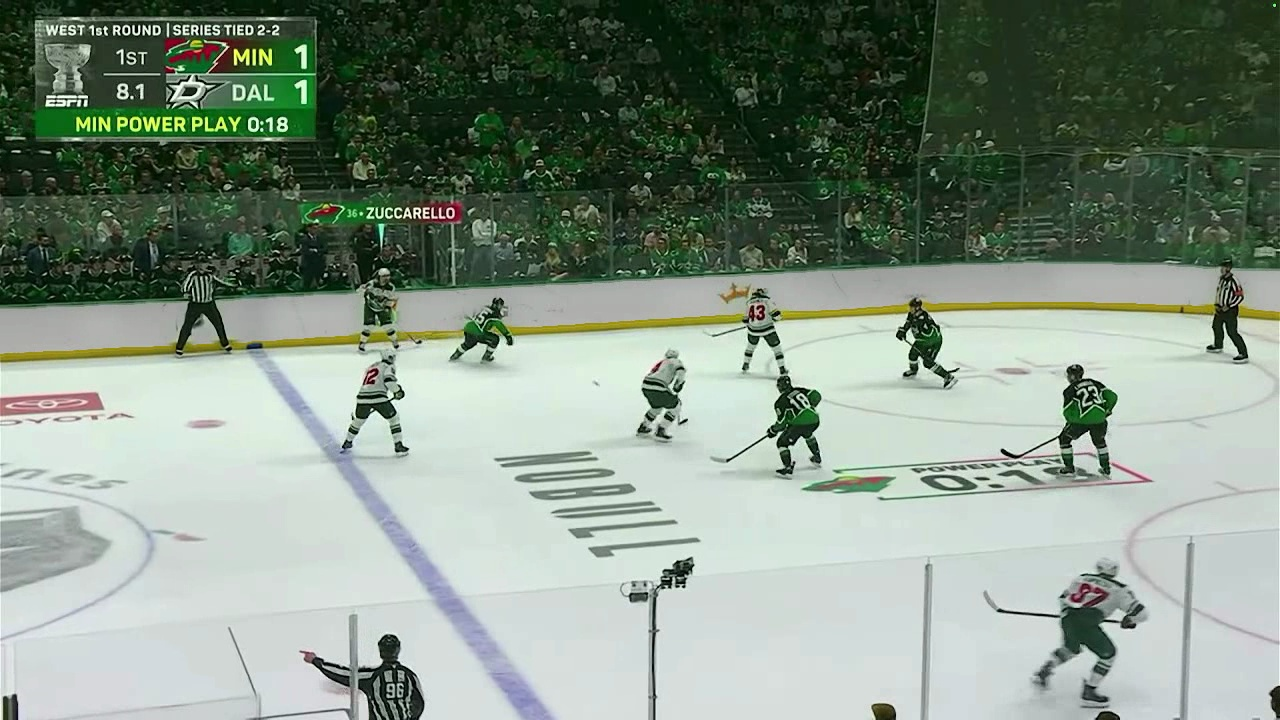
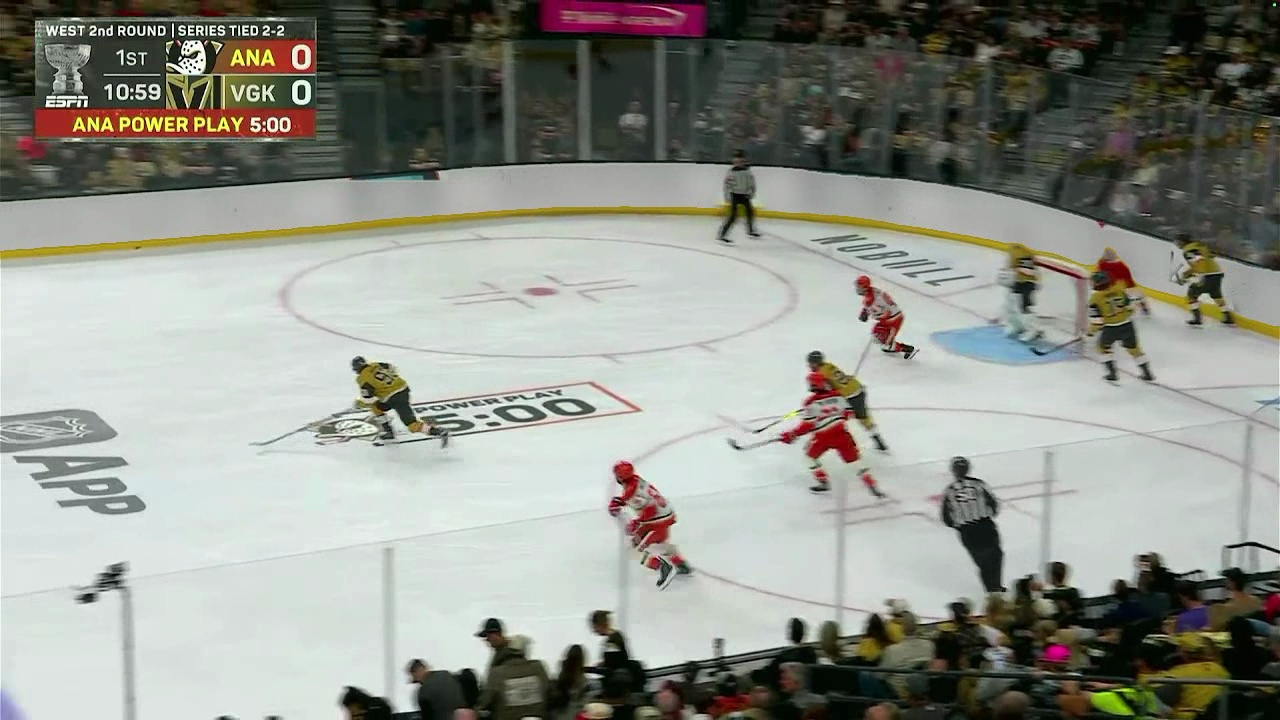
feat: sync diagnostic frames and renumber figures in README for Philly vs Carolina broadcast game

diff --git a/scratch/visualize_purple.py b/scratch/visualize_purple.py
@@ -9,7 +9,7 @@ sys.path.append('src')
 from calibration.ml_board_detector import MLBoardDetector
 
 def main():
-    vid_path = 'data/videos/2026-05-19 23-34-03.mp4'
+    vid_path = 'data/videos/2026-05-12 21-12-18.mp4'
     out_dir = '/Users/leesander/.gemini/antigravity-ide/brain/19cf1bf7-48df-4651-b795-7722108771ff/purple_viz'
     os.makedirs(out_dir, exist_ok=True)
     

diff --git a/README.md b/README.md
@@ -33,33 +33,24 @@ Below are side-by-side examples from successful U-Net model validation, demonstr
 ![U-Net Board Validation 2](images/unet_val_2.jpg)
 *Figure 2: Col vs Min validation showing perfect, curved-board physical coverage.*
 
-#### B. Challenging Cases & Failure Modes (Imperfect Masks)
-To ensure honest validation and identify room for calibration, we analyze visual edge cases where the U-Net model encounters noise or displays overconfidence:
-
-![U-Net Stands Leakage](images/unet_val_bad_1.jpg)
-*Figure 3: Stands Leakage (Stands Leak: 18.32% | Confidence: 1.0000). In this frame, player reflections and bench clutter cause the U-Net to erroneously classify spectators as boards. Notice that the confidence score is still 1.0000—demonstrating the network's overconfidence in its classification mistakes.*
-
-![U-Net Low Confidence](images/unet_val_bad_2.jpg)
-*Figure 4: Low Confidence Frame (Confidence: 0.6323 | Stands Leak: 2.01%). Heavy camera motion blur and extreme ice reflections degrade the network's output confidence, visible as a faded yellow/green probability heatmap.*
-
 > [!NOTE]
 > **Why do imperfect frames show a Confidence of 1.0000?**
 > The U-Net detector calculates its scalar confidence score using the **99.5th percentile of raw predicted probabilities** in the output map:
 > $$\text{Confidence} = \text{percentile}(P_{\text{raw}}, 99.5)$$
-> Deep neural networks are highly bimodal—pixels are predicted as either very close to 0.0 (non-board) or very close to 1.0 (board). Even when the network makes a spatial mistake (e.g. leaking into the spectator stands as in Figure 3), it is mathematically **overconfident in its predictions**, meaning the top 0.5% of predicted pixels still hold a probability value of `0.9999` or higher. This rounds to exactly `1.000` in the visualization.
+> Deep neural networks are highly bimodal—pixels are predicted as either very close to 0.0 (non-board) or very close to 1.0 (board). Even when the network makes a spatial mistake, it is mathematically **overconfident in its predictions**, meaning the top 0.5% of predicted pixels still hold a probability value of `0.9999` or higher. This rounds to exactly `1.000` in the visualization.
 
 
 ### II. YOLOv8 Player Highlight & Board Subtraction
 Run `scratch/visualize_purple.py` to examine player silhouettes and ad subtraction boundaries:
 
 ![YOLO Player Subtraction](images/purple_viz_frame_100.jpg)
-*Figure 5: Left side highlights detected players in purple and boards in green. Right side displays the final subtracted area that will be replaced with new ads.*
+*Figure 3: Left side highlights detected players in purple and boards in green. Right side displays the final subtracted area that will be replaced with new ads.*
 
 ### III. Final Edge-Snapped Compositing (Frame 100)
 Extracted frame 100 of the final composited video. Notice how the neutral off-white tiled boards sit perfectly behind the players and sticks:
 
 ![Composite Frame 100](images/composite_frame_100.jpg)
-*Figure 6: Frame 100 demonstrating the Guided Filter edge-snapping players and equipment seamlessly onto the white matte replacement boards.*
+*Figure 4: Frame 100 demonstrating the Guided Filter edge-snapping players and equipment seamlessly onto the white matte replacement boards.*
 
 ### IV. Panning Sequence Keyframes (Frames 10, 50, 90, 130)
 The Guided Filter tracks and snaps boundaries dynamically across high-speed horizontal camera panning:
